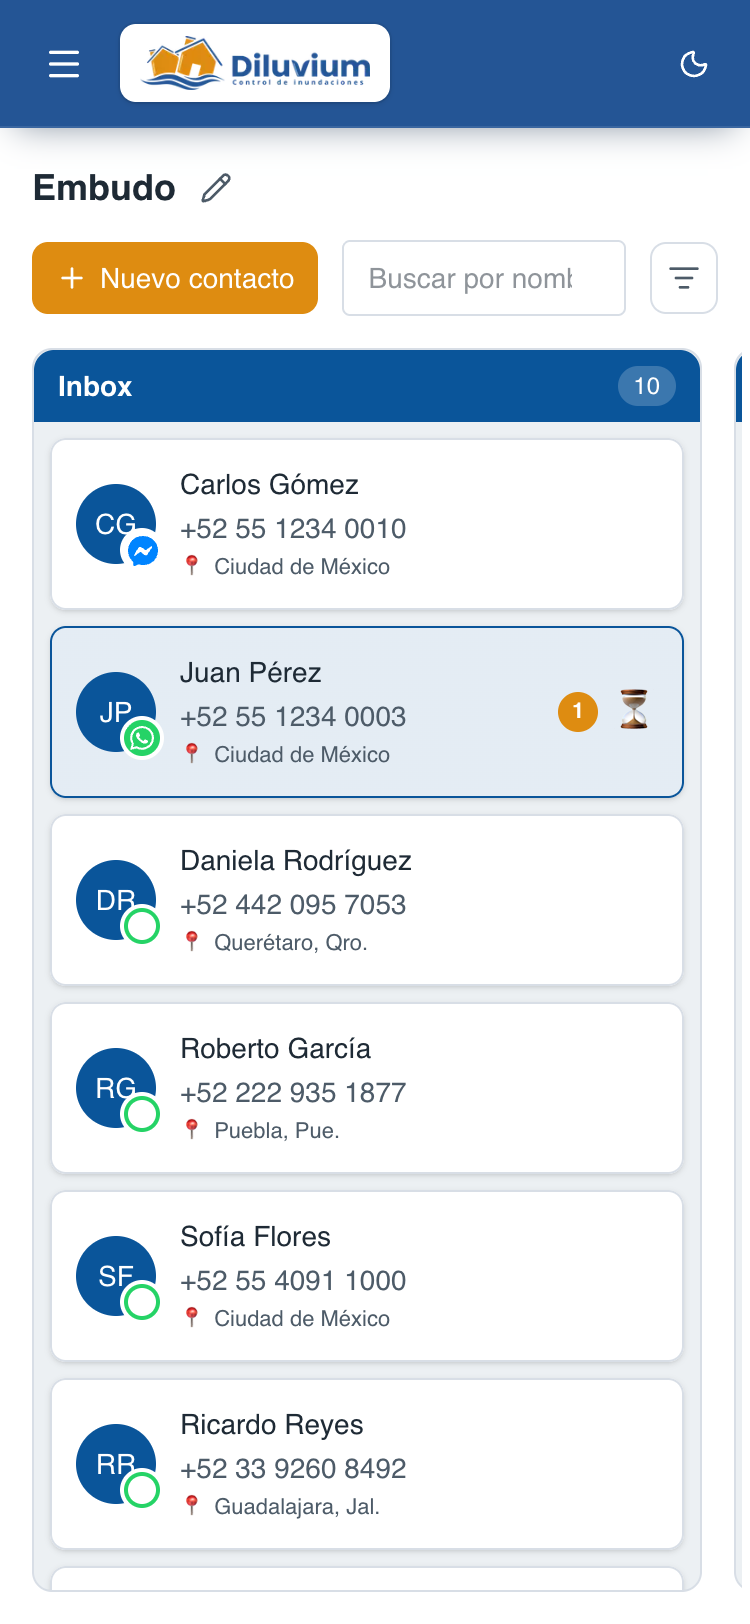
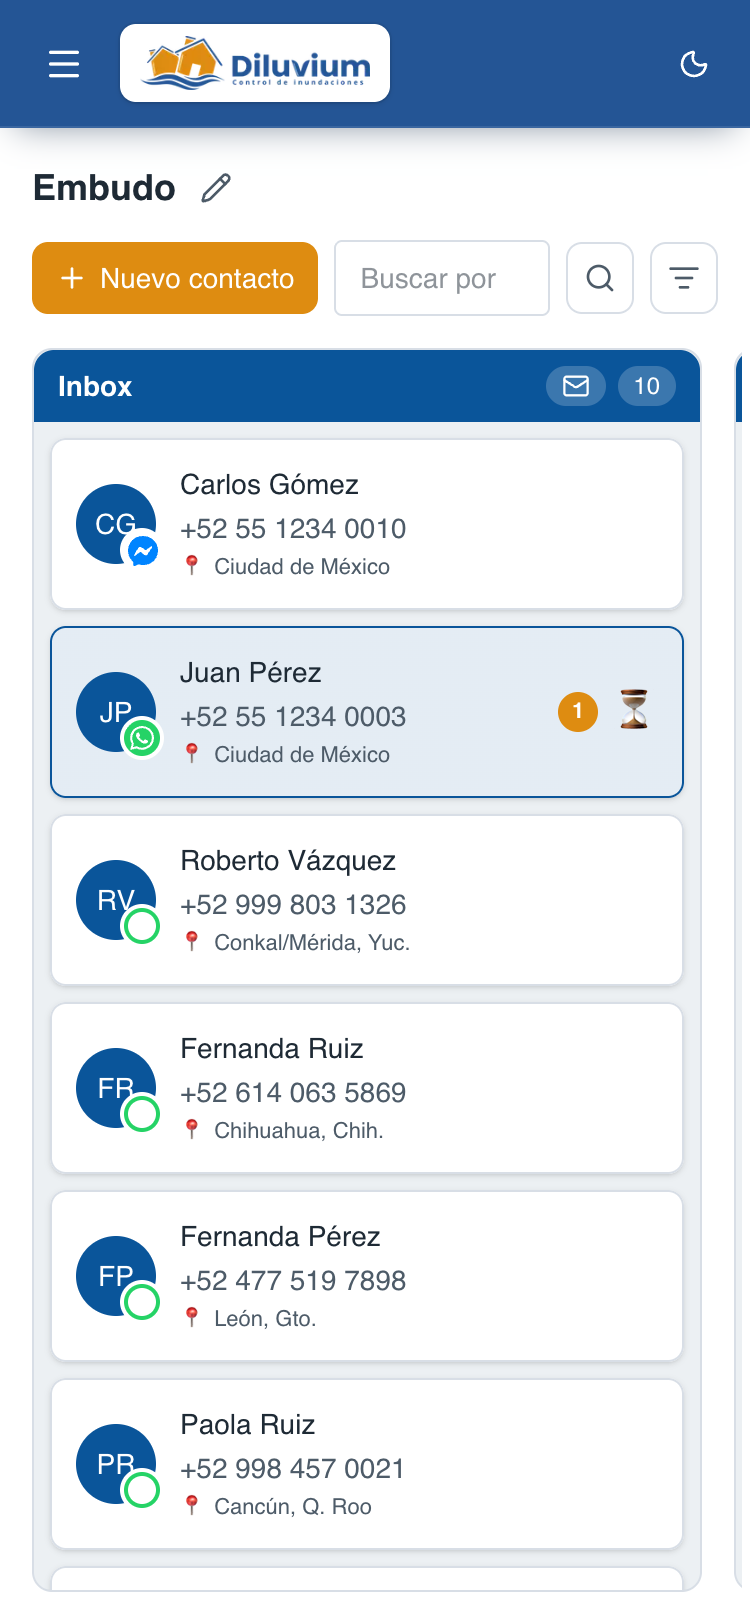
feat(embudo): botón «No leído» en cada columna — sobre junto al contador que deja solo las tarjetas pendientes
Píldora del mismo alto que el contador, solo con el sobre (sin texto). Prendida (naranja) la
columna deja las tarjetas con círculo naranja, azul o amarilla (needsAttention en funnel-tone.ts:
"cualquier mensaje no leído o no contestado", decisión del dueño 30-sep-2026) y el contador cuenta
solo esas. Cada columna por su lado; se suma a buscador, lupa y filtro; no se recuerda al recargar.
Tenue = la columna no tiene pendientes. La tarjeta abierta desde el tablero se queda hasta cerrar
el pop-up aunque se lea. Todo en el navegador con las señales en vivo: sin consulta ni migración.

Mapa: Embudo 2, 33 nuevo, Glosario, Móvil 7; capturas 06-embudo (píldoras), 06-embudo-no-leidos
(nueva) y 13-movil-embudo (rehecha: ya trae la lupa). bandeja.md y CLAUDE.md §6.

diff --git a/app/(app)/contactos/_components/contacts-board.tsx b/app/(app)/contactos/_components/contacts-board.tsx
@@ -15,7 +15,7 @@ import {
   type DragStartEvent,
   type Modifier,
 } from "@dnd-kit/core";
-import { Pencil, Plus, X } from "lucide-react";
+import { Mail, Pencil, Plus, X } from "lucide-react";
 import { getContactFullName, type BoardContact, type Stage, type Temperature } from "../_data/types";
 import { useFunnelStages } from "../../_components/funnel-stages-provider";
 import { StagesEditor } from "../../_components/stages-editor";
@@ -37,7 +37,7 @@ import { chatSearchTerm, normalizeSearch } from "@/lib/text/search";
 import { hasCardFilter, matchesCardFilter, type TemperatureFilter } from "@/lib/contacts/filters";
 import { CardFilterButton } from "../../_components/card-filter-button";
 import { CHAT_SEARCH_INPUT_ACTIVE, CHAT_SEARCH_PLACEHOLDER, ChatSearchButton } from "../../_components/chat-search-button";
-import { funnelTone, type FunnelSignal } from "@/lib/contacts/funnel-tone";
+import { funnelTone, needsAttention, type FunnelSignal } from "@/lib/contacts/funnel-tone";
 import { useInboxStream } from "../../dashboard/_components/use-inbox-stream";
 import { searchChatsByContact, setContactUnread } from "@/lib/inbox/actions";
 import { applyMarks, columnsByStage, mergeLiveContacts } from "./board-live";
@@ -63,6 +63,9 @@ function StageColumn({
   signals,
   chatHits,
   emptyText,
+  onlyUnread,
+  hasUnread,
+  onToggleUnread,
   onCardClick,
   onSetUnread,
 }: {
@@ -73,6 +76,11 @@ function StageColumn({
   chatHits: Map<string, number> | null;
   /** Qué dice la columna vacía ("Sin contactos", "Ninguno con este filtro"…). */
   emptyText: string;
+  /** Botón «No leído» prendido en esta columna: solo quedan las tarjetas con algo pendiente. */
+  onlyUnread: boolean;
+  /** ¿La columna tiene alguna tarjeta con algo pendiente? (apagado, el sobre sale tenue si no). */
+  hasUnread: boolean;
+  onToggleUnread: () => void;
   onCardClick: (contactId: string) => void;
   onSetUnread: (contactId: string, unread: boolean) => void;
 }) {
@@ -119,7 +127,27 @@ function StageColumn({
     >
       <div className="flex items-center justify-between rounded-t-lg bg-brand-navy px-3 py-2 text-brand-white">
         <span className="truncate text-sm font-semibold">{stage.name}</span>
-        <span className="rounded-full bg-white/20 px-2 py-0.5 text-xs">{contacts.length}</span>
+        <div className="flex shrink-0 items-center gap-1.5">
+          {/* «No leído» (30-sep-2026): píldora del mismo alto que el contador, solo el sobre.
+              Naranja = prendido; tenue = la columna no tiene nada pendiente. */}
+          <button
+            type="button"
+            onClick={onToggleUnread}
+            aria-pressed={onlyUnread}
+            aria-label="Solo no leídos y sin contestar"
+            title={onlyUnread ? "Mostrar todas" : hasUnread ? "Solo no leídos y sin contestar" : "Nada sin leer ni sin contestar"}
+            className={`flex h-5 items-center justify-center rounded-full px-2 transition-colors focus-visible:outline-none focus-visible:ring-2 focus-visible:ring-white/70 ${
+              onlyUnread
+                ? "bg-brand-orange text-brand-white hover:bg-brand-orange-light"
+                : hasUnread
+                  ? "bg-white/20 text-brand-white hover:bg-white/30"
+                  : "bg-white/10 text-white/40 hover:bg-white/20 hover:text-white/70"
+            }`}
+          >
+            <Mail className="size-3.5" aria-hidden="true" />
+          </button>
+          <span className="rounded-full bg-white/20 px-2 py-0.5 text-xs">{contacts.length}</span>
+        </div>
       </div>
 
       <div ref={setColumnRef} className="min-h-0 flex-1 overflow-y-auto p-2">
@@ -197,6 +225,13 @@ export function ContactsBoard({
   // colores; solo quedan las tarjetas que cumplen. No se recuerda entre recargas.
   const [temperatureFilter, setTemperatureFilter] = useState<TemperatureFilter | null>(null);
   const [destacadoOnly, setDestacadoOnly] = useState(false);
+  // Botón «No leído» de cada columna (30-sep-2026): etapas con el sobre prendido. Cada
+  // columna va por su lado y se suma al buscador, la lupa y el filtro. No se recuerda al
+  // recargar. Qué cuenta como pendiente: `needsAttention` (naranja, azul o amarilla).
+  const [unreadStages, setUnreadStages] = useState<ReadonlySet<string>>(() => new Set());
+  // Tarjeta abierta desde el tablero: aunque abrirla la marque leída, no se va de su
+  // columna con «No leído» mientras el pop-up siga abierto (se va al cerrarlo).
+  const [keptContactId, setKeptContactId] = useState<string | null>(null);
   // Lupa amarilla (29-sep-2026): el mismo buscador busca una palabra DENTRO de los chats;
   // solo quedan las tarjetas con la palabra, con su círculo amarillo. No se recuerda al
   // recargar. `chatHits` = el último resultado (contacto → cuántos mensajes) y su palabra.
@@ -678,6 +713,25 @@ export function ContactsBoard({
     () => columnsByStage(filteredContacts, stages.map((stage) => stage.key), (id) => signals[id]?.lastInboundAt),
     [filteredContacts, stages, signals],
   );
+  // «No leído»: lo que muestra cada columna y si le queda algo pendiente (el sobre tenue
+  // avisa que no). En vivo: una tarjeta que se vuelve pendiente aparece sola.
+  const unreadColumns = useMemo(() => {
+    const pending = (contact: BoardContact) => needsAttention(signals[contact.id]);
+    const out = new Map<string, { contacts: BoardContact[]; hasUnread: boolean }>();
+    for (const [key, list] of columns) {
+      const shown = unreadStages.has(key) ? list.filter((c) => c.id === keptContactId || pending(c)) : list;
+      out.set(key, { contacts: shown, hasUnread: shown.some(pending) });
+    }
+    return out;
+  }, [columns, signals, unreadStages, keptContactId]);
+  const unreadEmptyText = chatTerm && !chatCounts ? "Buscando…" : "Nada sin leer ni sin contestar";
+  function toggleUnreadStage(stageKey: string) {
+    setUnreadStages((current) => {
+      const next = new Set(current);
+      if (!next.delete(stageKey)) next.add(stageKey);
+      return next;
+    });
+  }
   // Un contacto en una etapa que esta pantalla aún no conoce (la crearon en otra sesión
   // y el aviso se perdió): se releen las etapas en vez de esconder la tarjeta.
   const unknownStage = useMemo(() => contacts.some((c) => !stageKeys.has(c.stage)), [contacts, stageKeys]);
@@ -856,6 +910,7 @@ export function ContactsBoard({
       return;
     }
     setSelectedContactId(contactId);
+    setKeptContactId(contactId);
   }
 
   function handleDragStart(event: DragStartEvent) {
@@ -992,18 +1047,25 @@ export function ContactsBoard({
           // dnd-kit y el snap se pelearían por la posición.
           className={`-m-3 flex min-h-0 flex-1 gap-4 overflow-x-auto p-3 ${activeContact ? "" : "max-sm:snap-x max-sm:snap-mandatory"}`}
         >
-          {stages.map((stage) => (
-            <StageColumn
-              key={stage.key}
-              stage={stage}
-              contacts={columns.get(stage.key) ?? []}
-              signals={signals}
-              chatHits={chatCounts}
-              emptyText={emptyText}
-              onCardClick={handleCardClick}
-              onSetUnread={handleSetUnread}
-            />
-          ))}
+          {stages.map((stage) => {
+            const column = unreadColumns.get(stage.key);
+            const onlyUnread = unreadStages.has(stage.key);
+            return (
+              <StageColumn
+                key={stage.key}
+                stage={stage}
+                contacts={column?.contacts ?? []}
+                signals={signals}
+                chatHits={chatCounts}
+                emptyText={onlyUnread ? unreadEmptyText : emptyText}
+                onlyUnread={onlyUnread}
+                hasUnread={column?.hasUnread ?? false}
+                onToggleUnread={() => toggleUnreadStage(stage.key)}
+                onCardClick={handleCardClick}
+                onSetUnread={handleSetUnread}
+              />
+            );
+          })}
         </div>
 
         <DragOverlay
@@ -1046,7 +1108,10 @@ export function ContactsBoard({
           signal={signals[selectedContact.id]}
           onMarkRead={() => handleSetUnread(selectedContact.id, false)}
           isSaving={isPending}
-          onClose={() => setSelectedContactId(null)}
+          onClose={() => {
+            setSelectedContactId(null);
+            setKeptContactId(null);
+          }}
           onStageChange={(nextStage) => handleStageChange(selectedContact.id, nextStage)}
           onTemperatureChange={(nextTemperature) =>
             handleTemperatureChange(selectedContact.id, nextTemperature)

diff --git a/lib/contacts/funnel-tone.test.ts b/lib/contacts/funnel-tone.test.ts
@@ -1,5 +1,5 @@
 import { describe, expect, it } from "vitest";
-import { canMarkRead, funnelTone, unreadBadge, type FunnelSignal } from "./funnel-tone";
+import { canMarkRead, funnelTone, needsAttention, unreadBadge, type FunnelSignal } from "./funnel-tone";
 
 const signal = (s: Partial<FunnelSignal>): FunnelSignal => ({ unread: 0, pending: false, urgent: false, lastInboundAt: null, ...s });
 
@@ -28,6 +28,20 @@ describe("canMarkRead", () => {
     expect(canMarkRead(undefined)).toBe(false);
     expect(canMarkRead(signal({}))).toBe(false);
     expect(canMarkRead(signal({ urgent: true }))).toBe(false);
+  });
+});
+
+describe("needsAttention", () => {
+  it("queda con el círculo naranja, el azul o el amarillo", () => {
+    expect(needsAttention(signal({ unread: 1 }))).toBe(true);
+    expect(needsAttention(signal({ pending: true }))).toBe(true);
+    expect(needsAttention(signal({ urgent: true }))).toBe(true);
+  });
+
+  it("sin señal o en blanco sin círculo no queda (aunque haya escrito hoy)", () => {
+    expect(needsAttention(undefined)).toBe(false);
+    expect(needsAttention(signal({}))).toBe(false);
+    expect(needsAttention(signal({ lastInboundAt: Date.now() }))).toBe(false);
   });
 });
 

diff --git a/lib/contacts/funnel-tone.ts b/lib/contacts/funnel-tone.ts
@@ -22,6 +22,14 @@ export function canMarkRead(signal: FunnelSignal | undefined): boolean {
   return (signal?.unread ?? 0) > 0 || signal?.pending === true;
 }
 
+// Botón «No leído» de cada columna del Embudo (30-sep-2026, dueño): quedan las tarjetas
+// con algo pendiente, cualquiera de las tres señales: círculo naranja (sin ver), azul
+// (el cliente escribió y nadie le ha contestado) o amarilla (el Agente IA necesita al
+// vendedor). Blanca sin círculo = nada pendiente.
+export function needsAttention(signal: FunnelSignal | undefined): boolean {
+  return (signal?.unread ?? 0) > 0 || signal?.pending === true || signal?.urgent === true;
+}
+
 // Texto del círculo de no vistos (mismo tope que la lista de la Bandeja). "" = sin círculo.
 export function unreadBadge(count: number | undefined): string {
   if (!count || count < 1) return "";

diff --git a/docs/mapa-crm.md b/docs/mapa-crm.md
@@ -45,6 +45,7 @@ Nadie es "dueño" de un contacto: **todos ven todos los contactos, siempre**.
 | **Temperatura** | Etiqueta rápida que pone el equipo: 🔥 Caliente · 🧊 Frío · ⏳ En espera · ○ sin asignar. Se filtra por ella (una a la vez) con el ícono junto al buscador de la Bandeja y del Embudo. ⭐ Destacado ya **no** es temperatura (desde el 29-sep-2026). |
 | **Destacado** | Marca ⭐ del **contacto** para todo el equipo, aparte de la temperatura y combinable con ella (🔥 + ⭐). Es **un solo dato**: la **estrella** de la lista de la Bandeja y el ⭐ del Embudo (tarjeta y pop-up) son lo mismo y se ven en vivo en las dos pantallas. Se filtra con la pestaña Destacado de la Bandeja y con ⭐ Destacado del filtro del Embudo. Desde el 29-sep-2026. |
 | **Búsqueda en los chats (lupa)** | La **lupa** entre el buscador y el filtro de la Bandeja y del Embudo. Prendida se pinta de **amarillo** y el mismo buscador busca una palabra **dentro de los mensajes** de todos los chats (cliente, vendedor, Agente IA, historial, pies de foto y transcripciones; no los avisos 📝 ni los comentarios), sin acentos y con mínimo 3 letras. Solo quedan los contactos con la palabra, con un **círculo amarillo** (en cuántos mensajes aparece) junto al naranja de no leídos; al abrir el chat la palabra sale **resaltada en amarillo** y la barra «1 de N» recorre cada coincidencia. El círculo es amarillo **sólido con borde**; la tarjeta amarilla del Embudo es otra cosa (fondo claro: el agente necesita al vendedor). Desde el 29-sep-2026. |
+| **No leído (Embudo)** | Píldora con un **sobre** junto al contador de cada columna del Embudo, del mismo alto que el contador. Prendida (**naranja**) la columna deja solo las tarjetas con algo pendiente: **círculo naranja** (sin ver), **azul** (sin contestar) o **amarilla** (el Agente IA necesita al vendedor), y el contador cuenta solo esas. Cada columna va por su lado. Sobre **tenue** = esa columna no tiene nada pendiente. Es más amplio que la pestaña **No leído** de la Bandeja, que solo lleva el círculo naranja. Desde el 30-sep-2026. |
 | **Semáforo** | Punto de color en la Bandeja: cuánto lleva el cliente esperando respuesta **de una persona**. Verde menos de 15 min, ámbar menos de 1 h, rojo más de 1 h. |
 | **Ventana de 24 h** | Regla de WhatsApp: hasta 24 horas después del último mensaje del cliente se puede escribir libre. Pasadas las 24 h **solo se puede mandar una plantilla**. |
 | **Gratis por anuncio (72 h)** | Si el cliente llegó por un anuncio y se le contesta dentro de 24 h, por 72 h todos los mensajes (también plantillas) son gratis. El chat lo indica con 🎁. |
@@ -510,6 +511,12 @@ Pop-up abierto desde esa tarjeta con la lupa prendida (32): la palabra resaltada
 
 ![Palabra resaltada en el pop-up del Embudo](mapa-crm/06-embudo-popup-lupa.png)
 
+**No leído (33)** (desde el 30-sep-2026): el sobre junto al contador de cada columna. Prendido en Prospecto (naranja):
+quedan solo las tarjetas pendientes —círculo naranja, azul o amarilla— y el contador dice cuántas (3). Inbox lo tiene
+apagado (blanco: sí tiene pendientes) y Compra tenue (no tiene ninguna).
+
+![No leído en el Embudo](mapa-crm/06-embudo-no-leidos.png)
+
 Temperatura en el pop-up (Detalle › 4): arriba la temperatura, abajo de la línea ⭐ Destacado, cada una por su lado.
 
 ![Temperatura y Destacado en el pop-up del Embudo](mapa-crm/06-embudo-temperatura.png)
@@ -524,7 +531,7 @@ WhatsApp Web, o con una plantilla desde el CRM.
 | # | Nombre oficial | Qué hace | Quién lo ve |
 |---|---|---|---|
 | 1 | **Buscar por nombre o teléfono...** | Filtra las tarjetas de todas las columnas. Con la lupa (30) prendida dice **«Buscar en los chats…»** y busca dentro de los mensajes. | Todos |
-| 2 | **Columna de etapa** | Nombre de la etapa y cuántos contactos tiene. Arriba va el de actividad más reciente: el último que **escribió** (sube solo, al momento) o el último que **entró** a la etapa. Un mensaje nuestro no lo mueve. | Todos |
+| 2 | **Columna de etapa** | Nombre de la etapa, el sobre **No leído** (33) y cuántos contactos tiene (con un filtro, cuántos quedan). Arriba va el de actividad más reciente: el último que **escribió** (sube solo, al momento) o el último que **entró** a la etapa. Un mensaje nuestro no lo mueve. | Todos |
 | 3 | **Tarjeta amarilla** | El agente necesita al vendedor (pidió un asesor, depósito recibido, error, tope de respuestas, no le escribió nada al cliente…) y ningún vendedor ha contestado después. | Todos |
 | 4 | **Tarjeta azul** | El cliente escribió y nadie le ha contestado. Se quita cuando sale una respuesta (vendedor desde el CRM o el celular, o el agente) o con **Marcar como leído** (19 o el clic derecho, 16); abrir el chat **no** la quita. Vuelve con el siguiente mensaje del cliente. Si también aplica amarilla, gana la amarilla. | Todos |
 | 5 | **Tarjeta blanca** | Nada pendiente. Al pasar el mouse se ilumina en gris (el azul es solo para 4). | Todos |
@@ -555,6 +562,7 @@ WhatsApp Web, o con una plantilla desde el CRM.
 | 30 | **Lupa: buscar en los chats** (entre el buscador y el filtro) | La misma de la Bandeja (26): prendida y amarilla, el buscador (1) busca una palabra **dentro de los chats** de todos los contactos, desde 3 letras. **Las columnas no cambian:** solo quedan las tarjetas cuyo chat tiene la palabra (cada columna cuenta las suyas; la vacía dice «Ninguno con esta búsqueda») y se suma al filtro (29). Mientras busca, junto al título dice «Buscando en los chats…». No se recuerda al recargar. Apagada en la primera captura; prendida en la de la lupa. Desde el 29-sep-2026. | Todos |
 | 31 | **Círculo amarillo** (tarjeta) | Con la lupa (30): en cuántos mensajes de sus chats aparece la palabra, junto al círculo naranja (6). Es amarillo **sólido con borde**, distinto del fondo claro de la tarjeta amarilla (3). En la captura de la lupa. | Todos |
 | 32 | **Palabra resaltada y «1 de N»** (pop-up) | Al abrir la tarjeta con la lupa prendida, el chat del pop-up resalta la palabra en amarillo, salta a la coincidencia más reciente y la recorre con ↑ ↓, igual que la Bandeja (28). En la captura del pop-up con la lupa. | Todos |
+| 33 | **No leído** (sobre junto al contador) | Píldora del mismo alto que el contador, solo con el sobre. Prendida (**naranja**) esa columna deja solo las tarjetas con algo pendiente: círculo naranja (6), azul (4) o amarilla (3); el contador cuenta solo esas y la vacía dice «Nada sin leer ni sin contestar». Cada columna va por su lado (se pueden prender varias). **Blanca** = apagada y la columna tiene pendientes; **tenue** = apagada y no tiene ninguno. En vivo: una tarjeta que se vuelve pendiente aparece sola; la que abres se queda mientras el pop-up está abierto aunque la leas, y se va al cerrarlo. Se suma al buscador (1), la lupa (30) y el filtro (29). No se recuerda al recargar. Desde el 30-sep-2026. | Todos |
 
 **Lo cambias tú desde la pantalla:** contactos nuevos (20) y el primer mensaje a quien no tiene chat (25–26), la etapa (arrastrando la tarjeta), leído / no leído (clic derecho o **Marcar como leído**, 19), las
 columnas (lápiz, 17) y todo lo del chat y el Detalle en el pop-up. Los cambios a las columnas (crear, renombrar, borrar,
@@ -569,7 +577,7 @@ ordenar, papel, modelo) quedan en **Agente IA › Historial**.
 apagado o pausado; pinta la tarjeta de amarillo cuando necesita al vendedor, y su chat y Detalle se ven igual que en
 la Bandeja (con el indicador de lo que está leyendo, Detalle › 28).
 
-<sub>Para Code: ruta `/embudo` (`/contactos` redirige); `app/(app)/contactos/_components/` (`contacts-board`, `contact-card`, `contact-detail-panel`, `contact-chat`); colores `lib/contacts/funnel-signals.ts` y `funnel-tone.ts`, estilos `[data-funnel]` y `[data-funnel-card]` (luz gris) en `app/globals.css`; «Marcar como leído» = `mark-read-button.tsx` + `conversations.attended_at` (migración 0045); orden de la columna = `board-live.ts` (`columnsByStage`: etapa o último entrante, que sale de `window_expires_at` − 24 h). Columnas: tabla `funnel_stages` (migración 0041), editor `app/(app)/_components/stages-editor.tsx`, etapas en vivo `funnel-stages-provider.tsx` (evento SSE `stages.updated`). Nuevo contacto: `new-contact-dialog.tsx` → `createContact` (lib/actions/contacts.ts) → `lib/contacts/create-manual.ts` (source `manual`, candado por teléfono como la entrada, fuera de Conversaciones nuevas en `lib/dashboard/queries.ts`); teléfono `lib/contacts/manual-phone.ts`. Sin chat: `first-message.tsx`; WhatsApp Web `lib/contacts/whatsapp-link.ts`; plantilla `startChatWithTemplate` (lib/inbox/actions.ts) → `lib/messaging/start-conversation.ts` → Zernio `POST /v1/inbox/conversations`. Filtro (29): mismo `card-filter-button.tsx`, en el navegador sobre las tarjetas ya cargadas (`matchesCardFilter` de `lib/contacts/filters.ts`, lee `destacado` del contacto). Temperatura + ⭐ del pop-up: `temperature-destacado-menu.tsx` (solo si `ContactDetails` recibe `onDestacadoChange`); puesta al día en vivo `applyMarks` (board-live.ts). Lupa (30–32): `ChatSearchButton` + `searchChatsByContact` (lib/inbox/actions.ts → `searchChatsByContactForOrg` en lib/inbox/chat-search.ts, [contactId, cuántos]); el tablero filtra sus tarjetas con ese resultado, lo vuelve a pedir con cada `message.upserted`/`message.deleted` (1.5 s) y pasa `searchTerm` a `ContactDetailPanel` → `ContactChat` → `ChatThread`.</sub>
+<sub>Para Code: ruta `/embudo` (`/contactos` redirige); `app/(app)/contactos/_components/` (`contacts-board`, `contact-card`, `contact-detail-panel`, `contact-chat`); colores `lib/contacts/funnel-signals.ts` y `funnel-tone.ts`, estilos `[data-funnel]` y `[data-funnel-card]` (luz gris) en `app/globals.css`; «Marcar como leído» = `mark-read-button.tsx` + `conversations.attended_at` (migración 0045); orden de la columna = `board-live.ts` (`columnsByStage`: etapa o último entrante, que sale de `window_expires_at` − 24 h). Columnas: tabla `funnel_stages` (migración 0041), editor `app/(app)/_components/stages-editor.tsx`, etapas en vivo `funnel-stages-provider.tsx` (evento SSE `stages.updated`). Nuevo contacto: `new-contact-dialog.tsx` → `createContact` (lib/actions/contacts.ts) → `lib/contacts/create-manual.ts` (source `manual`, candado por teléfono como la entrada, fuera de Conversaciones nuevas en `lib/dashboard/queries.ts`); teléfono `lib/contacts/manual-phone.ts`. Sin chat: `first-message.tsx`; WhatsApp Web `lib/contacts/whatsapp-link.ts`; plantilla `startChatWithTemplate` (lib/inbox/actions.ts) → `lib/messaging/start-conversation.ts` → Zernio `POST /v1/inbox/conversations`. Filtro (29): mismo `card-filter-button.tsx`, en el navegador sobre las tarjetas ya cargadas (`matchesCardFilter` de `lib/contacts/filters.ts`, lee `destacado` del contacto). Temperatura + ⭐ del pop-up: `temperature-destacado-menu.tsx` (solo si `ContactDetails` recibe `onDestacadoChange`); puesta al día en vivo `applyMarks` (board-live.ts). Lupa (30–32): `ChatSearchButton` + `searchChatsByContact` (lib/inbox/actions.ts → `searchChatsByContactForOrg` en lib/inbox/chat-search.ts, [contactId, cuántos]); el tablero filtra sus tarjetas con ese resultado, lo vuelve a pedir con cada `message.upserted`/`message.deleted` (1.5 s) y pasa `searchTerm` a `ContactDetailPanel` → `ContactChat` → `ChatThread`. No leído (33): botón en el encabezado de `StageColumn` (contacts-board.tsx), estado `unreadStages` por etapa y `keptContactId` (la tarjeta abierta no se va hasta cerrar el pop-up); regla `needsAttention` en `lib/contacts/funnel-tone.ts` (círculo, azul o amarilla) sobre las señales que el tablero ya tiene en vivo (sin consulta nueva).</sub>
 
 ---
 
@@ -984,7 +992,7 @@ números dibujados: el número de la tabla nombra la pieza.
 | 4 | **← Volver a la lista** | En el encabezado del chat, a la izquierda del nombre: regresa a la lista (3). | Todos |
 | 5 | **(i) Detalle del contacto** | En el encabezado del chat: abre el mismo Detalle del contacto (3.2.3) encima del chat, a pantalla completa. ✕ lo cierra. En escritorio el detalle es el panel de la derecha, como siempre. | Todos |
 | 6 | **Caja para escribir (móvil)** | Dos renglones: ⚡ 📄 📎 ▶ 🕒 arriba y la caja con **Enviar** abajo. En el celular **Enter baja de renglón** (el texto conserva sus saltos) y **solo el botón Enviar manda**; en escritorio Enter sigue enviando. | Todos |
-| 7 | **Embudo: columnas** | Cada columna ocupa la pantalla; el tablero se desliza de lado columna por columna. Para arrastrar una tarjeta a otra etapa: dejarla presionada un momento y moverla (el clic derecho no existe en celular). | Todos |
+| 7 | **Embudo: columnas** | Cada columna ocupa la pantalla; el tablero se desliza de lado columna por columna. Cada una trae su sobre **No leído** (Embudo › 33), igual que en escritorio. Para arrastrar una tarjeta a otra etapa: dejarla presionada un momento y moverla (el clic derecho no existe en celular). | Todos |
 | 8 | **Pop-up del Embudo (móvil)** | Al tocar una tarjeta, el pop-up ocupa toda la pantalla **igual que la Bandeja**: el chat completo y, en su encabezado, el sobre (Marcar como leído), el **(i)** que abre el Detalle del contacto encima y la ✕ roja que cierra el pop-up. | Todos |
 | 9 | **Demás pantallas** | Dashboard, Mensajes rápidos, Anuncios, Agente IA, Automatización y Configuración se acomodan en una sola columna. **Nada se desliza de lado** (solo el Embudo, 7): las tablas de Anuncios, Vendedores y Corridas se apilan como tarjetas y las subpestañas de Agente IA se acomodan en varios renglones. | Todos |
 | 10 | **✕ roja (cerrar)** | En el celular todo lo que se abre encima se cierra con una ✕ blanca en círculo rojo: el menú ☰, el Detalle del contacto (5), el pop-up del Embudo (8), los selectores del chat (⚡ mensajes rápidos, 📄 plantillas, 🕒 programar y el buscador "/"), el visor de fotos, Nuevo contacto, Columnas del Embudo y el formulario de Mensajes rápidos. En escritorio no cambia nada (Esc, "Cerrar" o la ✕ chica de siempre). | Todos |

diff --git a/docs/bandeja.md b/docs/bandeja.md
@@ -149,6 +149,14 @@ clic abre un menú para cambiarla sin abrir el chat. Lista y panel quedan sincro
   IA) o con "Marcar como leído" (clic derecho o el botón del pop-up, a la derecha del nombre). Abrir el
   chat solo apaga el círculo. **Amarillo** (gana) = aviso del agente sin respuesta humana posterior;
   "Marcar como leído" no lo apaga. Código: `lib/contacts/funnel-signals.ts`, `funnel-tone.ts`.
+- **No leído por columna (30-sep-2026, dueño):** píldora con un sobre junto al contador de cada columna
+  (mismo alto que el contador, sin texto). Prendida (naranja) la columna deja solo las tarjetas con
+  algo pendiente: círculo naranja, azul **o** amarilla (`needsAttention` en `funnel-tone.ts`: "cualquier
+  mensaje no leído o no contestado"); el contador cuenta solo esas. Más amplio que la pestaña "No
+  leído" de la Bandeja (solo `unread_count > 0`). Cada columna por su lado, se suma a buscador, lupa y
+  filtro, no se recuerda al recargar. Tenue = la columna no tiene pendientes. Todo en el navegador con
+  las señales en vivo (sin consulta nueva); la tarjeta abierta desde el tablero se queda hasta cerrar
+  el pop-up (`keptContactId`), aunque abrirla o «Marcar como leído» la apague.
 - La luz del cursor sobre la tarjeta es **gris** (`[data-funnel-card]`): antes era el mismo azul del
   "por contestar" y una tarjeta bajo el mouse parecía pendiente.
 - **Orden de cada columna:** de más reciente a más viejo por lo último entre "entró a la etapa"

diff --git a/CLAUDE.md b/CLAUDE.md
@@ -345,6 +345,9 @@ Reglas de UI:
   amarillo (gana) = el Agente IA necesita al vendedor (se apaga contestando); círculo naranja = sin
   ver. La luz del cursor en la tarjeta es gris. Cada columna va por actividad: arriba el último que
   escribió o entró a la etapa, en vivo. Detalle: `docs/bandeja.md` › Colores y orden del Embudo.
+- **No leído por columna del Embudo (30-sep-2026):** sobre en una píldora junto al contador de cada
+  columna (mismo alto, sin texto). Prendido (naranja) deja solo las tarjetas con círculo naranja, azul
+  o amarilla (`needsAttention`); cada columna por su lado; no se recuerda al recargar.
 - Semáforo de tiempo sin respuesta (en la lista de la bandeja y en la tarjeta): verde <15 min,
   ámbar <1 h, rojo >1 h.
 - Menos datos es mejor: sin asignación, seguidores, etiquetas ni autor del mensaje en v1.
